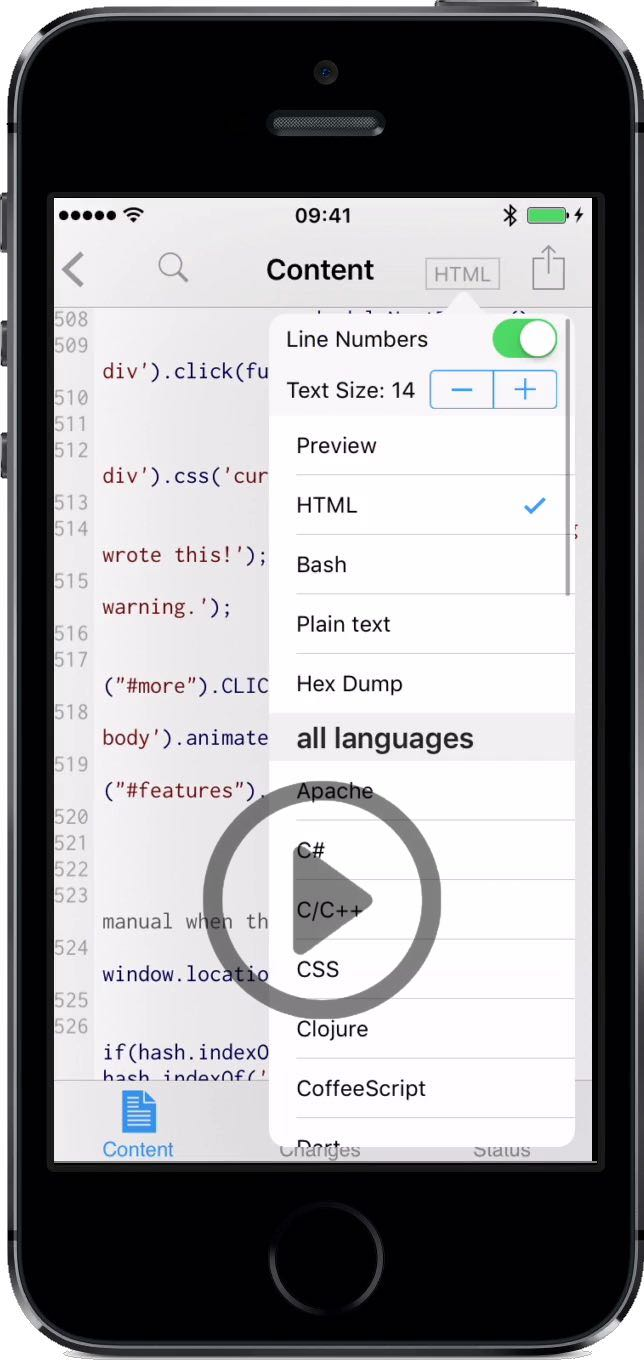
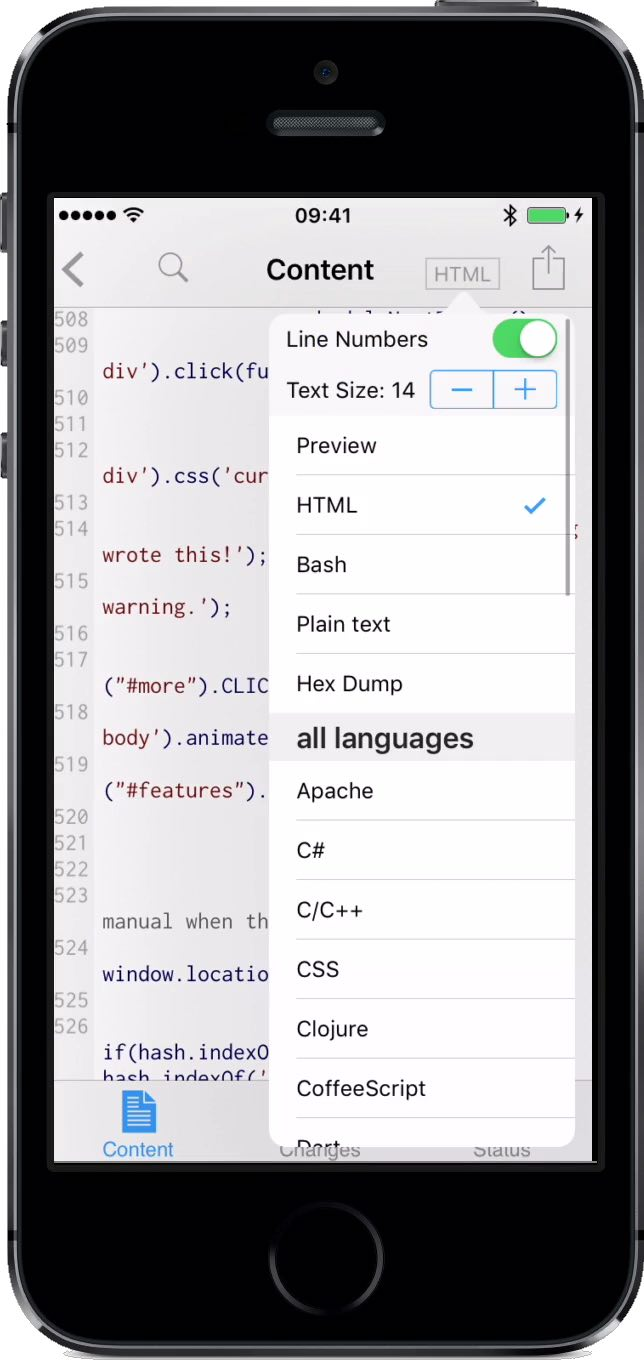
play button is now stand-alone for screenshot videos and will zoom and fade out to indicate loading

Changed region(s): [[0.3106, 0.5534, 0.6832, 0.7687]]

diff --git a/manual.html b/manual.html
@@ -737,28 +737,32 @@ andrew@company.se/home/andrew/git/site.git/
                 video.spinner_started = false;
                 if(alt) video.setAttribute("alt", alt);
 
-                var spinner = document.createElement("div");
-                spinner.className = "spinner";
+                var playButton = document.createElement("img");
+                playButton.setAttribute("class", "playButton");
+                playButton.setAttribute("src", "video/play.png");
 
                 var source = document.createElement("source");
                 source.setAttribute("src", "video/" + base + ".mp4");
                 source.setAttribute("type", "video/mp4");
                 video.oncanplay = function() {
-                    spinner.parentNode.removeChild(spinner);
+                    playButton.parentNode.removeChild(playButton);
                 };
                 video.onclick = function() {
                     if(!video.spinner_started) {
                         video.spinner_started = true;
-                        img.parentNode.insertBefore(spinner, img.nextSibling);
+                        playButton.setAttribute("class", "playButton spinning");
                     }
 
                     var isPlaying = !!(video.currentTime > 0 && !video.paused && !video.ended && video.readyState > 2);
                     if(isPlaying) video.pause();
                     else video.play();
                 };
+                playButton.onclick = video.onclick;
+
                 video.appendChild(source);
 
                 img.parentNode.insertBefore(video, img.nextSibling);
+                img.parentNode.insertBefore(playButton, img.nextSibling);
             });
         }
 

diff --git a/css/style.css b/css/style.css
@@ -237,24 +237,28 @@ sup {
     margin-right: -4%;
 }
 
-.spinner {
+img.playButton {
+    background-color: transparent;
     z-index: 10;
-    position: relative;
     height:60px;
     width:60px;
 
     margin: auto;
-    margin-top: -85%;
-    -webkit-animation: rotation .6s infinite linear;
-    -moz-animation: rotation .6s infinite linear;
-    -o-animation: rotation .6s infinite linear;
-    -ms-animation: rotation .6s infinite linear;
-    animation: rotation .6s infinite linear;
-    border-left:6px solid rgba(0,174,239,.15);
-    border-right:6px solid rgba(0,174,239,.15);
-    border-bottom:6px solid rgba(0,174,239,.15);
-    border-top:6px solid rgba(0,174,239,.8);
-    border-radius:100%;
+}
+
+img.spinning {
+    opacity: 0.1;
+    -ms-transform: scale(2, 2);
+    -webkit-transform: scale(2, 2);
+    transform: scale(2, 2);
+
+    -ms-transition: opacity 2s, -ms-transform 2s;
+    -webkit-transition: opacity 2s, -webkit-transform 2s;
+    transition: opacity 2s, transform 2s;
+
+    -ms-transition-timing-function: ease-in-out;
+    -webkit-transition-timing-function: ease-in-out;
+    transition-timing-function: ease-in-out;
 }
 
 @-webkit-keyframes rotation {
